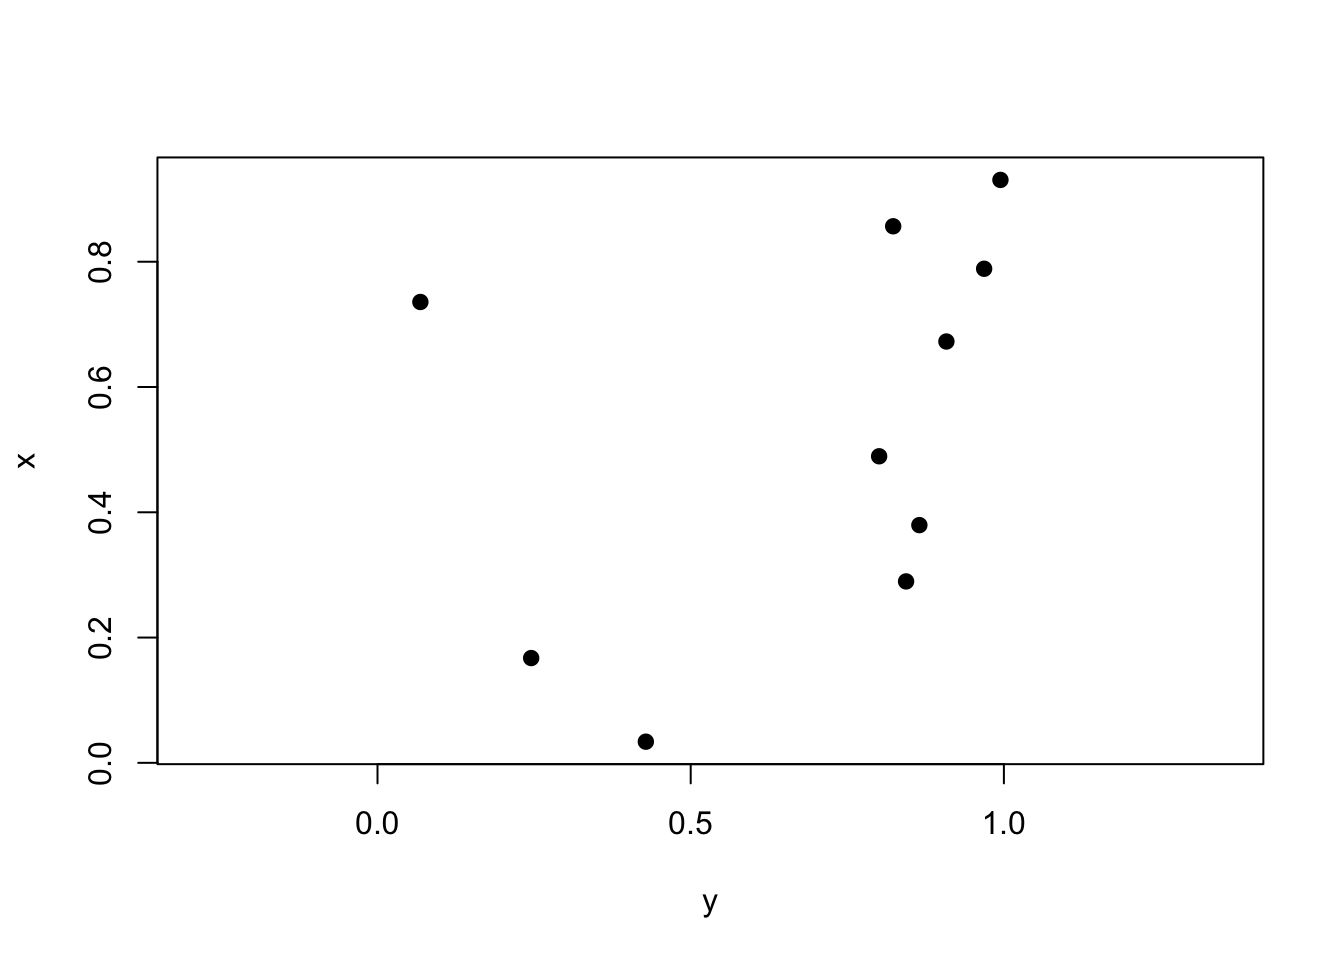
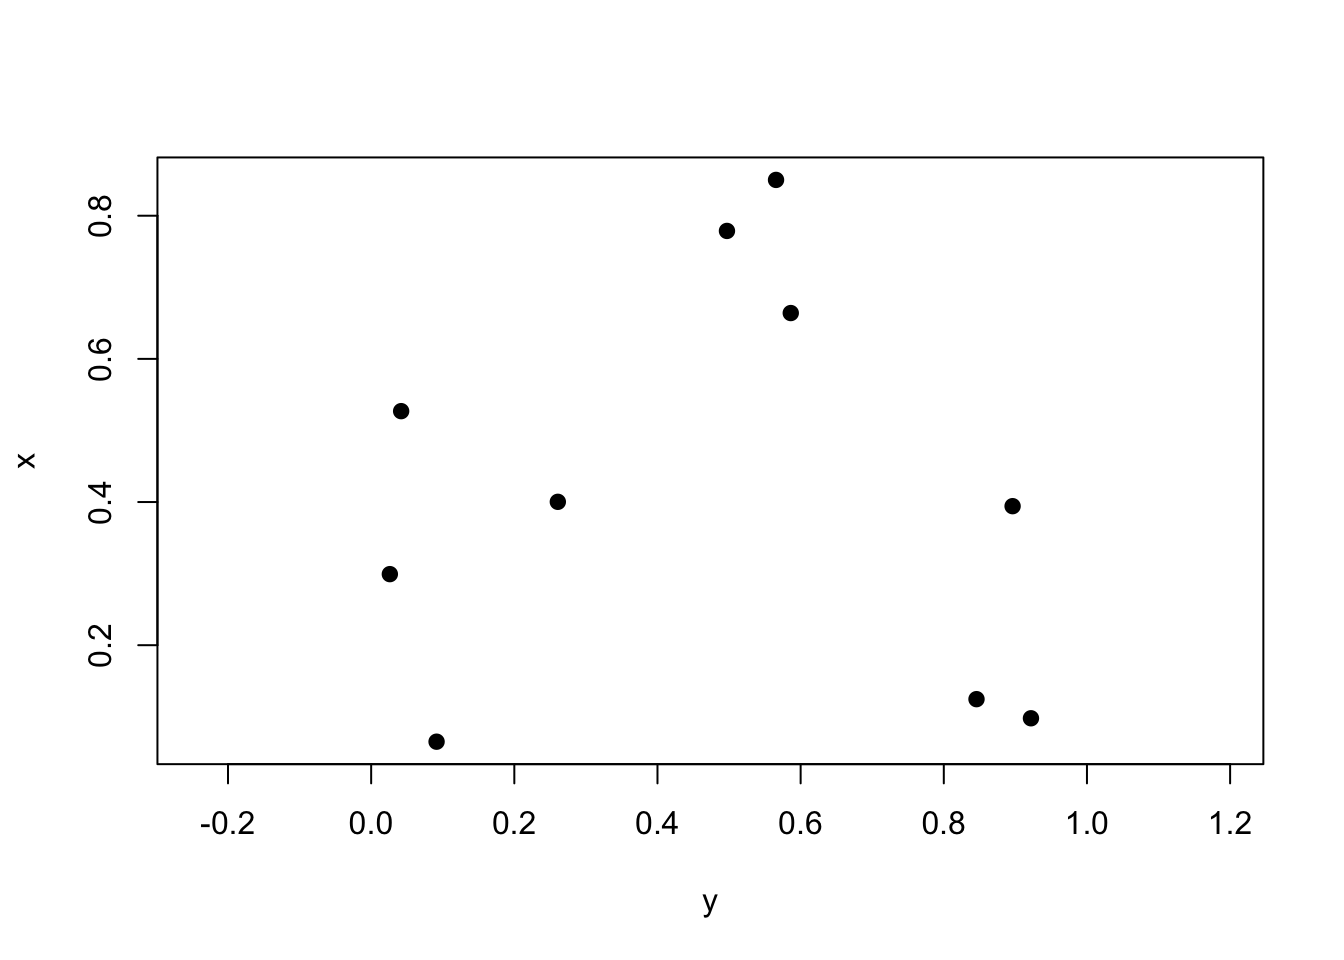
Fixed format

diff --git a/docs/cor_reg.html b/docs/cor_reg.html
@@ -451,7 +451,7 @@ window.Quarto = {
 <div class="code-copy-outer-scaffold"><div class="sourceCode cell-code" id="cb11"><pre class="sourceCode r code-with-copy"><code class="sourceCode r"><span id="cb11-1"><a href="#cb11-1" aria-hidden="true" tabindex="-1"></a><span class="fu">cor</span>(y, x) <span class="sc">|&gt;</span> </span>
 <span id="cb11-2"><a href="#cb11-2" aria-hidden="true" tabindex="-1"></a>  <span class="fu">round</span>(<span class="dv">2</span>)</span></code></pre></div><button title="Copy to Clipboard" class="code-copy-button"><i class="bi"></i></button></div>
 <div class="cell-output cell-output-stdout">
-<pre><code>[1] 0.4</code></pre>
+<pre><code>[1] -0.05</code></pre>
 </div>
 </div>
 </section>
@@ -1000,8 +1000,7 @@ special_attack 0.48   0.36    0.31           1.00</code></pre>
 <div class="code-copy-outer-scaffold"><div class="sourceCode cell-code" id="cb41"><pre class="sourceCode r code-with-copy"><code class="sourceCode r"><span id="cb41-1"><a href="#cb41-1" aria-hidden="true" tabindex="-1"></a><span class="co"># dataset in tidyverse</span></span>
 <span id="cb41-2"><a href="#cb41-2" aria-hidden="true" tabindex="-1"></a><span class="co"># if you load tidyverse, you have the dataset</span></span>
 <span id="cb41-3"><a href="#cb41-3" aria-hidden="true" tabindex="-1"></a></span>
-<span id="cb41-4"><a href="#cb41-4" aria-hidden="true" tabindex="-1"></a>midwest <span class="sc">|&gt;</span> <span class="fu">filter</span>(state <span class="sc">==</span> <span class="st">"IL"</span>) <span class="ot">-&gt;</span></span>
-<span id="cb41-5"><a href="#cb41-5" aria-hidden="true" tabindex="-1"></a>  IL</span></code></pre></div><button title="Copy to Clipboard" class="code-copy-button"><i class="bi"></i></button></div>
+<span id="cb41-4"><a href="#cb41-4" aria-hidden="true" tabindex="-1"></a>IL <span class="ot">&lt;-</span> midwest <span class="sc">|&gt;</span> <span class="fu">filter</span>(state <span class="sc">==</span> <span class="st">"IL"</span>)</span></code></pre></div><button title="Copy to Clipboard" class="code-copy-button"><i class="bi"></i></button></div>
 </div>
 <div class="cell">
 <div class="cell-output cell-output-stderr">
